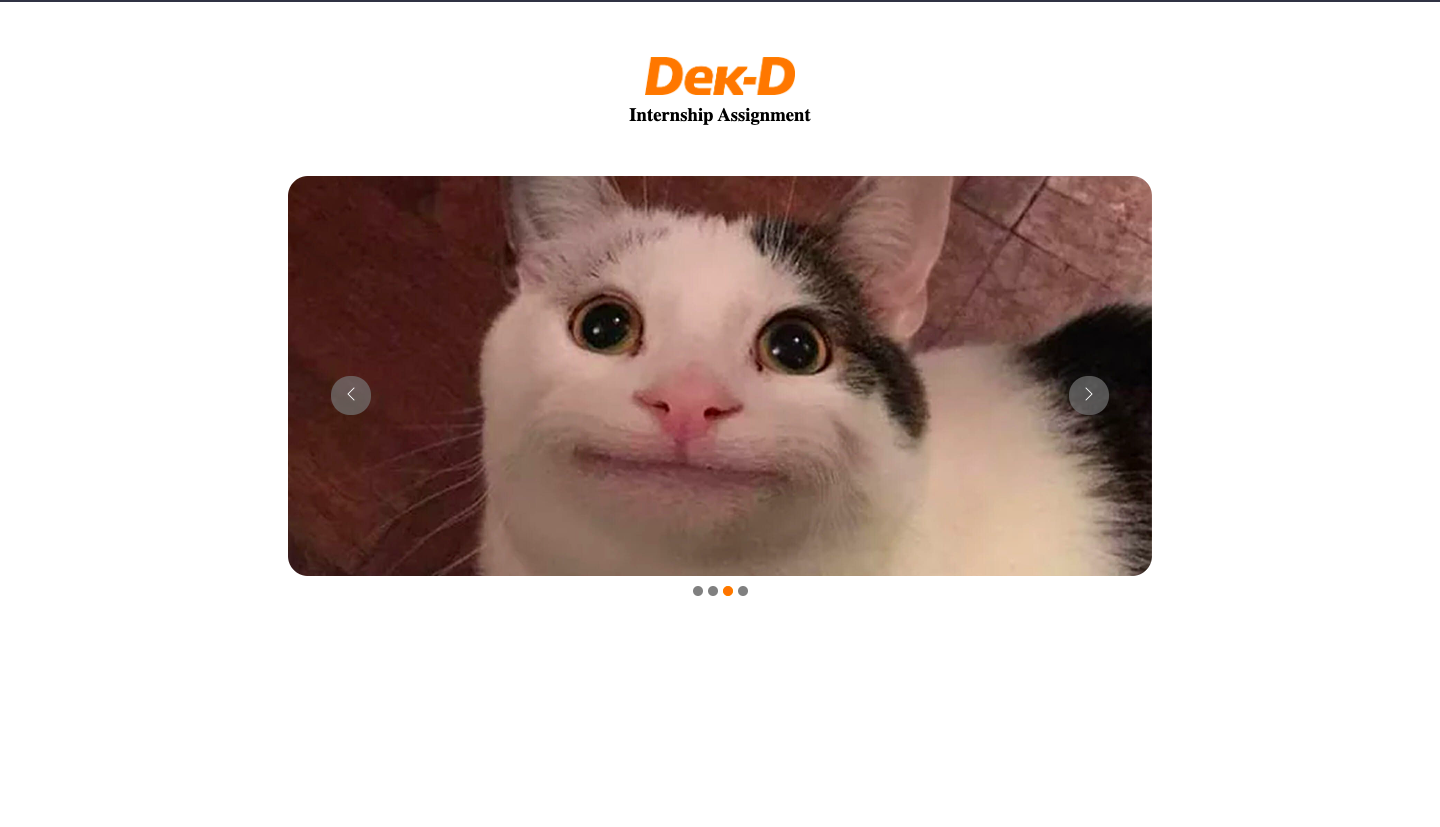
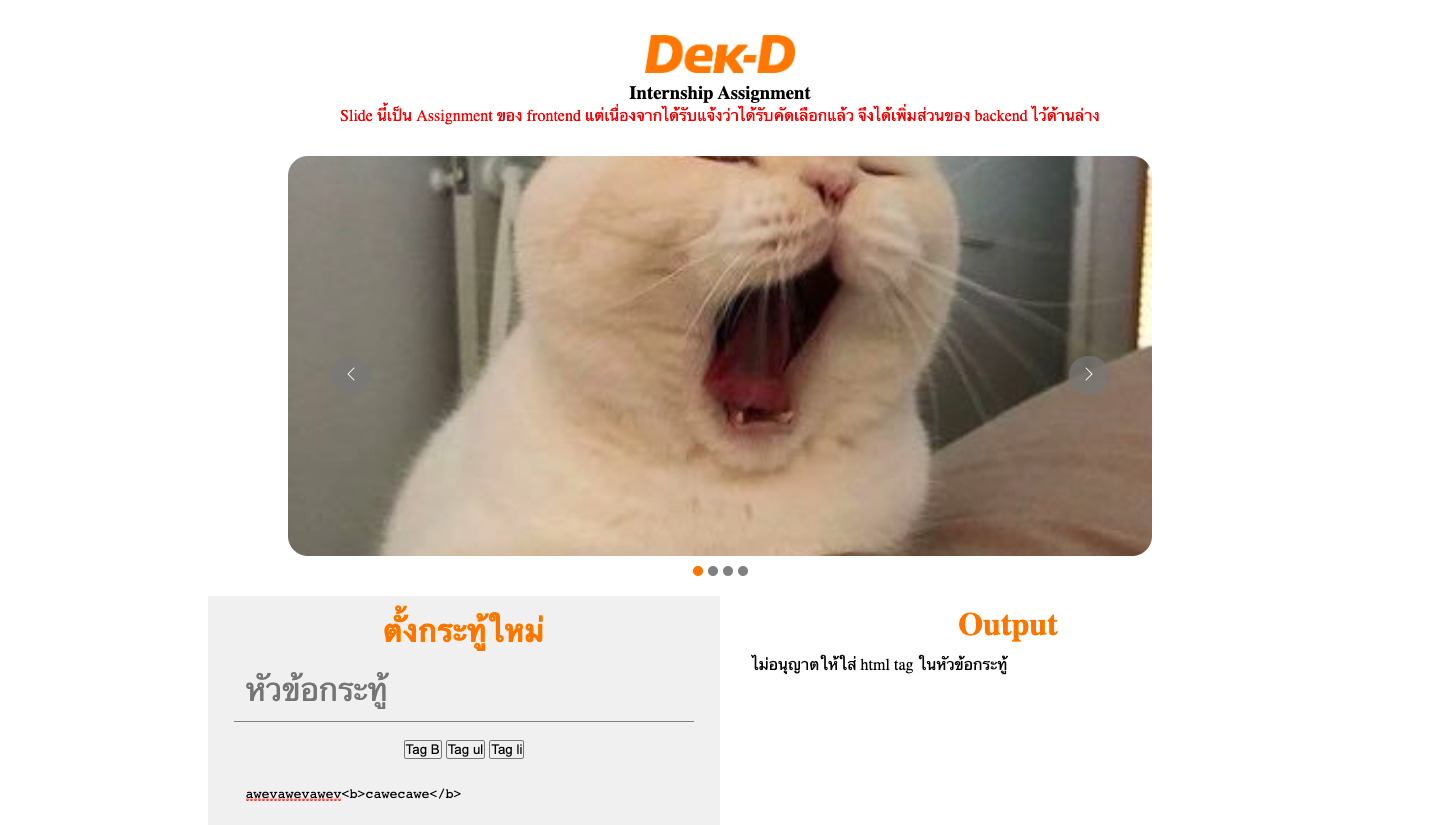
feat - backend

diff --git a/index.html b/index.html
@@ -5,6 +5,7 @@
         <meta name="viewport" content="width=device-width, initial-scale=1.0" />
         <title>Dek-D Intern</title>
         <link rel="stylesheet" href="./styles/slide.css" />
+        <link rel="stylesheet" href="./styles/form.css" />
     </head>
     <body onload="start()">
         <center class="header">
@@ -15,6 +16,11 @@
                 loading="lazy"
             />
             <h3>Internship Assignment</h3>
+            <p class="alert">
+                Slide นี้เป็น Assignment ของ frontend
+                แต่เนื่องจากได้รับแจ้งว่าได้รับคัดเลือกแล้ว จึงได้เพิ่มส่วนของ
+                backend ไว้ด้านล่าง
+            </p>
         </center>
         <div class="main-carousel">
             <button class="prev" id="prev">
@@ -52,6 +58,48 @@
             </div>
         </div>
         <div class="dot-group" id="dot-group"></div>
+        <div class="form">
+            <div>
+                <div class="kratu">
+                    <h1>ตั้งกระทู้ใหม่</h1>
+                    <center>
+                        <input
+                            placeholder="หัวข้อกระทู้"
+                            type="text"
+                            class="inputTitle"
+                            id="user-title"
+                            autofocus
+                            required
+                        />
+                        <br /><br />
+                        <span>
+                            <button onclick="tagBold()">Tag B</button>
+                            <button onclick="tagUl()">Tag ul</button>
+                            <button onclick="tagLi()">Tag li</button>
+                        </span>
+                        <textarea
+                            placeholder="เนื้อหากระทู้"
+                            name="data"
+                            id="user-data"
+                            cols="50"
+                            rows="5"
+                            class="inputData"
+                            required
+                        ></textarea>
+                        <input
+                            type="submit"
+                            class="button"
+                            onclick="sendForm()"
+                        />
+                    </center>
+                </div>
+            </div>
+            <div>
+                <h1>Output</h1>
+                <div id="r-title"></div>
+            </div>
+        </div>
         <script src="./scripts/slide.js"></script>
+        <script src="./scripts/form.js"></script>
     </body>
 </html>

diff --git a/scripts/form.js b/scripts/form.js
@@ -1,0 +1,35 @@
+const tagBold = () => {
+    let userData = (document.getElementById('user-data').value += `<b></b>`)
+}
+
+const tagUl = () => {
+    let userData = (document.getElementById('user-data').value += `<ul></ul>`)
+}
+
+const tagLi = () => {
+    let userData = (document.getElementById('user-data').value += `<li></li>`)
+}
+
+const sendForm = () => {
+    const userTitle = document.getElementById('user-title').value
+    const userData = document.getElementById('user-data').value
+    if (userTitle.length < 4 || userTitle.length > 140) {
+        alert('กรุณาใส่หัวข้อกระทู้ตั้งแต่ 4 ตัวอักษร ถึง 140 ตัวอักษร')
+        return
+    }
+
+    if (userData.length < 6 || userData.length > 2000) {
+        alert('กรุณาใส่กระทู้ตั้งแต่ 6 ตัวอักษร ถึง 2000 ตัวอักษร')
+        return
+    }
+
+    const xhttp = new XMLHttpRequest()
+    xhttp.onreadystatechange = function () {
+        if (this.readyState == 4 && this.status == 200) {
+            document.getElementById('r-title').innerHTML = this.responseText
+        }
+    }
+    xhttp.open('POST', '../backend/sendForm.php', true)
+    xhttp.setRequestHeader('Content-type', 'application/x-www-form-urlencoded')
+    xhttp.send(`title=${userTitle}&data=${userData}`)
+}

diff --git a/styles/form.css b/styles/form.css
@@ -1,0 +1,49 @@
+.inputTitle {
+    width: 90%;
+    border: none;
+    padding: 0.75rem;
+    border-bottom: solid gray 1px;
+    background: #f0f0f0;
+    outline: none;
+    font-size: 2rem;
+}
+
+.kratu {
+    background: #f0f0f0;
+}
+
+.inputData {
+    width: 90%;
+    border: none;
+    border-bottom: solid gray 1px;
+    background: #f0f0f0;
+    padding: 0.75rem;
+    outline: none;
+    margin: 15px;
+}
+.form {
+    margin: auto;
+    display: grid;
+    max-width: 1024px;
+    grid-template-columns: 50% 50%;
+    margin-top: 20px;
+    grid-gap: 2rem;
+    margin-bottom: 50px;
+}
+
+form > h1,
+div > h1 {
+    text-align: center;
+    padding: 10px;
+    color: #f37a01;
+}
+
+.button {
+    width: 90%;
+    height: 2rem;
+    border: none;
+    background: #f37a01;
+    color: white;
+    cursor: pointer;
+    margin-bottom: 10px;
+}

diff --git a/styles/slide.css b/styles/slide.css
@@ -55,6 +55,10 @@
     outline: none;
 }
 
+.alert {
+    color: red;
+}
+
 .prev {
     left: 5%;
 }
@@ -64,7 +68,7 @@
 }
 
 .header {
-    margin: 50px 0px;
+    margin: 30px 0px;
 }
 
 .logo {

diff --git a/backend/sendForm.php b/backend/sendForm.php
@@ -1,0 +1,21 @@
+<?php
+
+$title = $_REQUEST["title"];
+$data = $_REQUEST["data"];
+if (strlen($title) < 4 || strlen($title) > 140) {
+    echo "<p>กรุณาใส่หัวข้อกระทู้ตั้งแต่ 4 ตัวอักษร ถึง 140 ตัวอักษร</p>";
+    return;
+}
+
+if ($title != strip_tags($title)) {
+    echo "<p>ไม่อนุญาตให้ใส่ html tag ในหัวข้อกระทู้</p>";
+    return;
+}
+
+if (strlen($data) < 6 || strlen($title) > 2000) {
+    echo "<p>กรุณาใส่กระทู้ตั้งแต่ 6 ตัวอักษร ถึง 2000 ตัวอักษร</p>";
+    return;
+}
+
+echo "<h3>หัวข้อกระทู้ : " . htmlspecialchars($title) . "</h3>";
+echo "<p>กระทู้ : " . $data . "</p>";

diff --git a/README.md b/README.md
@@ -1,11 +1,14 @@
-# Dek-D Internship Assignment ( Frontend )
+# Dek-D Internship Assignment ( Backend )
 
 ## File Structure
 
 ```
 - index.html
+- backend
+    - sendForm.php
 - scripts
     - slide.js
+    - form.js
 - images
     - 01.jpg
     - 02.jpg
@@ -14,6 +17,7 @@
     - logo.png
 - styles
     - slide.css
+    - form.css
 ```
 
 ## Screenshot
